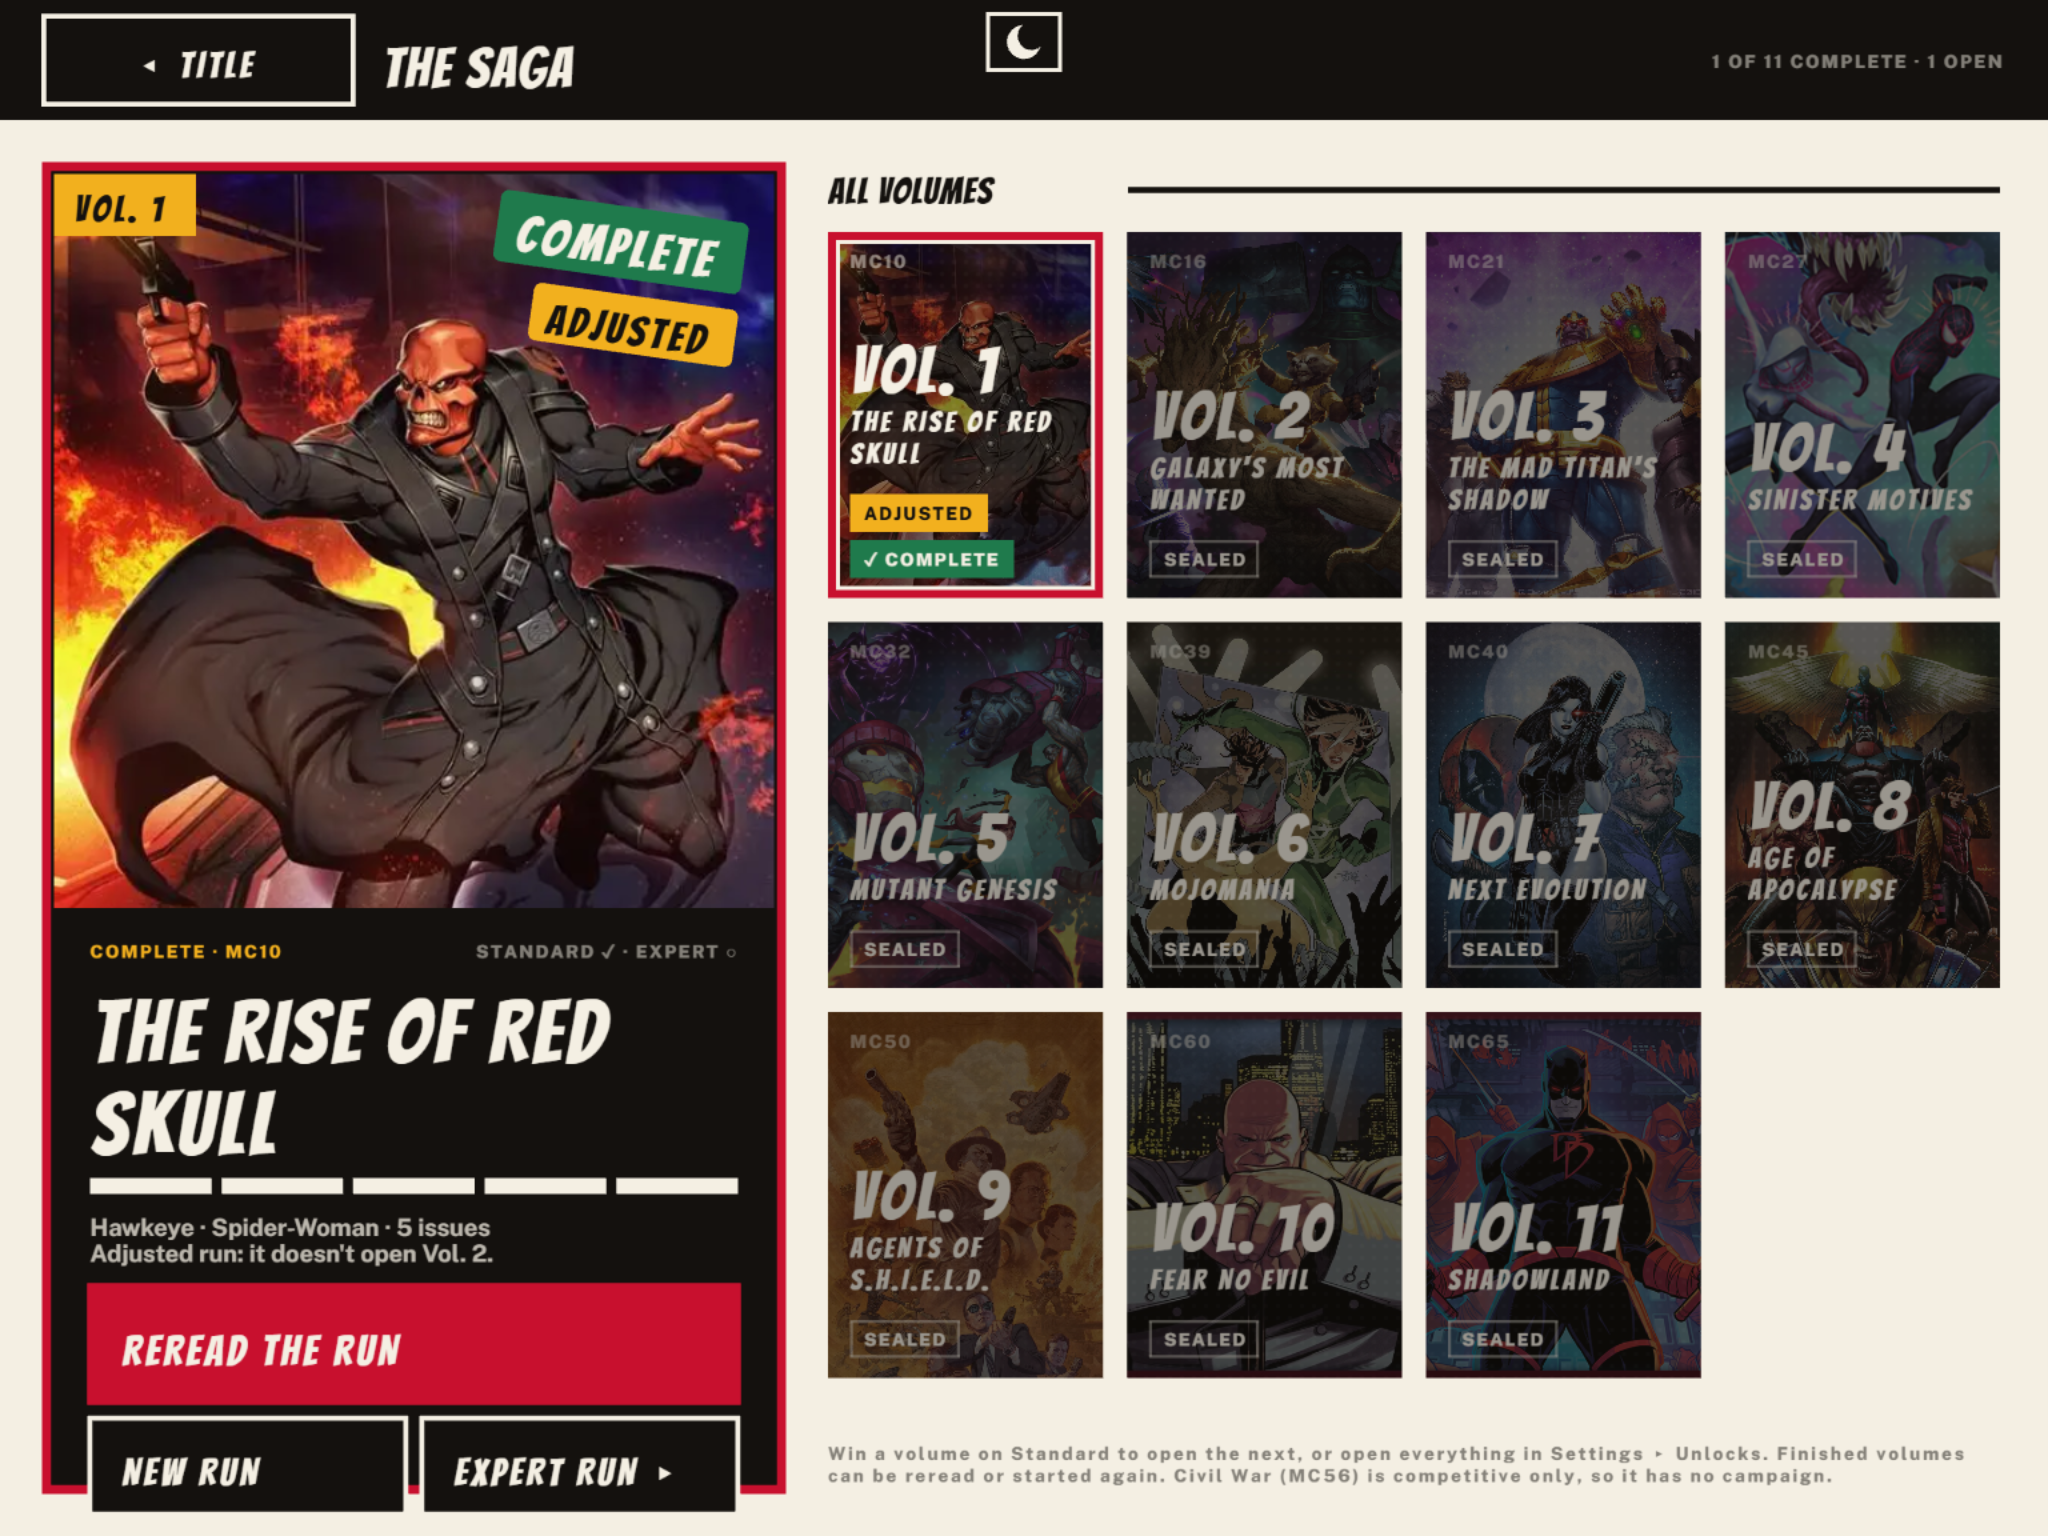
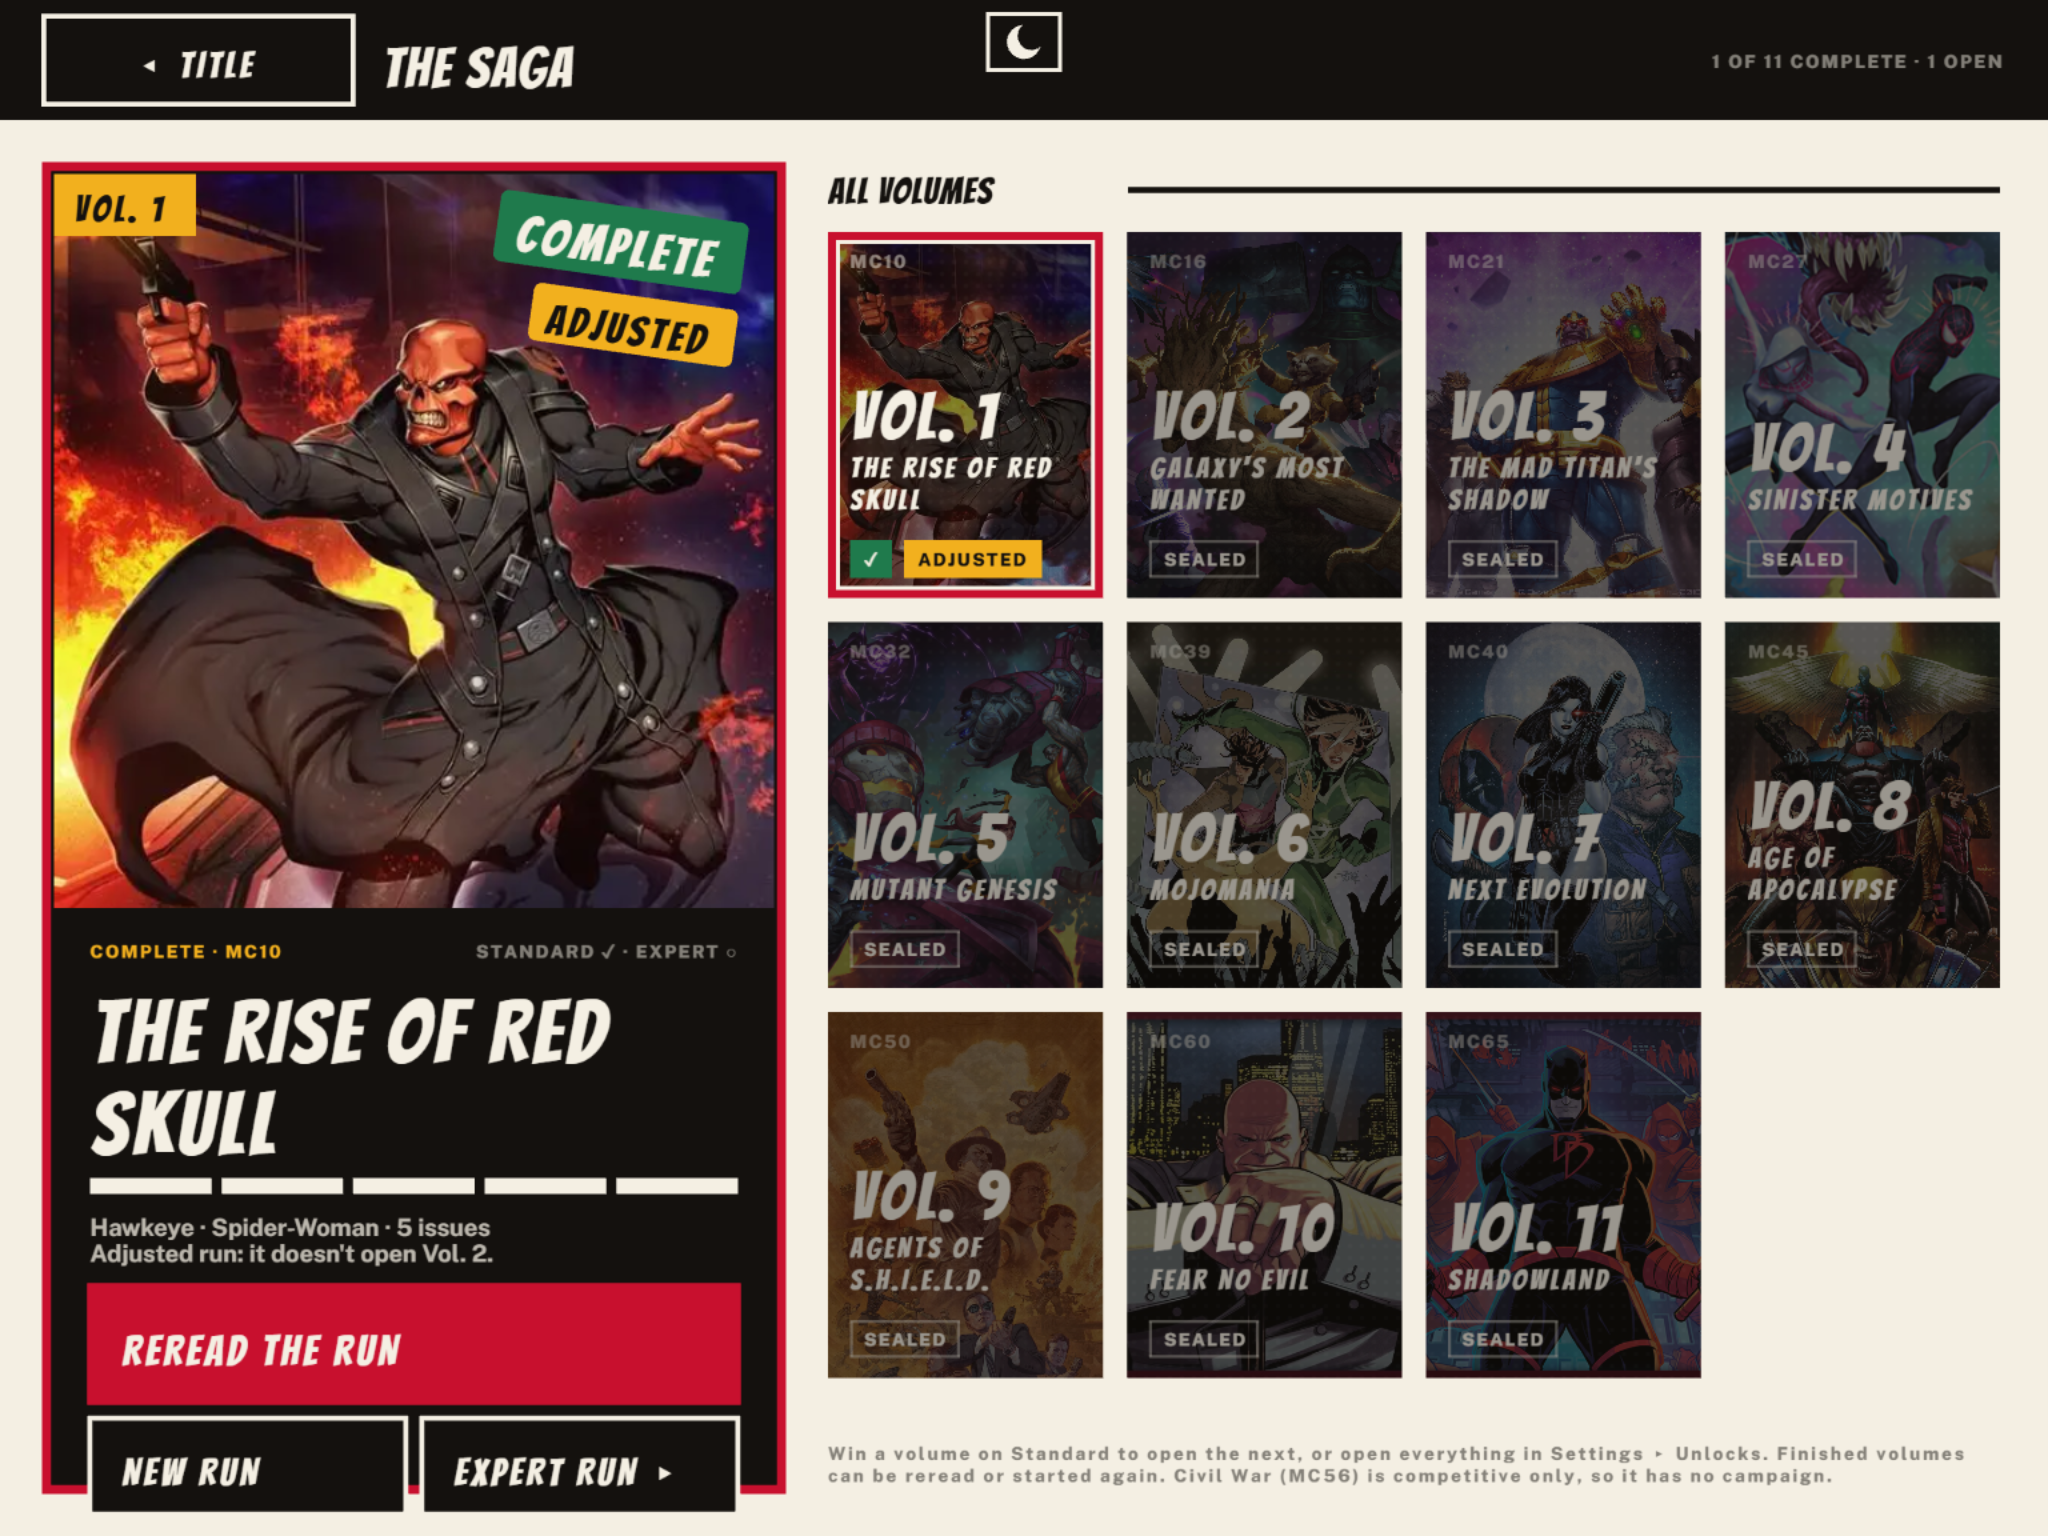
Saga tiles: keep ADJUSTED on the chip's line, shortening COMPLETE to a check in narrow tiles

Changed region(s): [[0.4062, 0.2188, 0.5312, 0.375]]

diff --git a/packages/client/src/ui/campaign-buttons-a.ts b/packages/client/src/ui/campaign-buttons-a.ts
@@ -120,6 +120,8 @@ export interface CampaignTileOptions {
   readonly chip: string;
   /** A second chip beside the first, in caution amber ("ADJUSTED" on a volume won only by adjusted runs, issue #869). */
   readonly flag?: string;
+  /** The chip's short form ("✓" for "✓ Complete"), used when the chip and `flag` don't fit side by side in full. */
+  readonly compactChip?: string;
   readonly status: CampaignTileStatus;
   /** A dimmed thumbnail behind the text, when this volume has villain art. */
   readonly art?: Picture | null;
@@ -176,22 +178,23 @@ export function campaignTile(
   // The chip's words wrap inside the tile ("NOT IN THIS BUILD" is wider than a narrow tile) and the chip grows a line.
   // Added before the label, so the fill is drawn under it.
   const chipBg = scene.add.graphics();
-  const chipLabel = scene.add
-    .text(0, 0, options.chip.toUpperCase(), textStyle(typeRole.label, chipColor.text, 1))
-    .setLetterSpacing(0.9)
-    .setAlign("left")
-    .setWordWrapWidth(Math.max(40, rect.width - 22 - 14 - 8));
-  const chipHeight = Math.max(19, chipLabel.height + 7);
-  const chipY = rect.y + rect.height - 10 - chipHeight;
-  // The flag (issue #869) sits just after the chip on its line, or on a line of its own above it in a narrow tile.
+  // The flag (issue #869) always sits just after the chip on its line, so the tile's layout never changes height. In a
+  // narrow tile (a phone's two-column Grid View, a landscape tablet) the chip gives way to its short form to make room.
   const flagLabel = options.flag
     ? scene.add
         .text(0, 0, options.flag.toUpperCase(), textStyle(typeRole.label, surface.inkOnHue.hex, 1))
         .setLetterSpacing(0.9)
     : null;
-  const flagBeside =
-    flagLabel !== null && rect.x + 11 + chipLabel.width + 14 + 6 + flagLabel.width + 14 <= rect.x + rect.width - 11;
-  const flagY = flagLabel === null || flagBeside ? chipY : chipY - chipHeight - 4;
+  const fitsBeside = (chipWidth: number): boolean =>
+    flagLabel === null || 11 + chipWidth + 14 + 6 + flagLabel.width + 14 <= rect.width - 11;
+  const chipLabel = scene.add
+    .text(0, 0, options.chip.toUpperCase(), textStyle(typeRole.label, chipColor.text, 1))
+    .setLetterSpacing(0.9)
+    .setAlign("left")
+    .setWordWrapWidth(Math.max(40, rect.width - 22 - 14 - 8));
+  if (!fitsBeside(chipLabel.width) && options.compactChip) chipLabel.setText(options.compactChip.toUpperCase());
+  const chipHeight = Math.max(19, chipLabel.height + 7);
+  const chipY = rect.y + rect.height - 10 - chipHeight;
   const titleSize = Math.min(46, rect.width * 0.24, rect.height * 0.24);
 
   // Laid out bottom-up (chip, then subtitle, then title) so a two-line box name never collides with the chip below
@@ -202,13 +205,13 @@ export function campaignTile(
       ...textStyle(bangers(Math.min(20, rect.width * 0.1), 1), surface.paper.hex),
       wordWrap: { width: rect.width - 22, useAdvancedWrap: true },
     });
-    subtitle.setY(flagY - 14 - subtitle.height);
+    subtitle.setY(chipY - 14 - subtitle.height);
     objects.push(subtitle);
   }
   const title = scene.add.text(rect.x + 11, 0, options.title.toUpperCase(), {
     ...textStyle(bangers(titleSize, 1), surface.paper.hex),
   });
-  title.setY((subtitle ? subtitle.y : flagY - 6) - 2 - title.height);
+  title.setY((subtitle ? subtitle.y : chipY - 6) - 2 - title.height);
   objects.push(title);
 
   const chipRect: Rect = { x: rect.x + 11, y: chipY, width: chipLabel.width + 14, height: chipHeight };
@@ -223,8 +226,8 @@ export function campaignTile(
   if (flagLabel) {
     const flagBg = scene.add.graphics();
     const flagRect: Rect = {
-      x: flagBeside ? chipRect.x + chipRect.width + 6 : chipRect.x,
-      y: flagY,
+      x: chipRect.x + chipRect.width + 6,
+      y: chipRect.y,
       width: flagLabel.width + 14,
       height: chipRect.height,
     };

diff --git a/packages/client/src/scenes/campaign/saga.ts b/packages/client/src/scenes/campaign/saga.ts
@@ -368,7 +368,7 @@ export class CampaignSagaScene extends Phaser.Scene {
       title: tileRow.volume.custom ? CUSTOM_BADGE : `Vol. ${tileRow.volume.number}`,
       subtitle: tileRow.volume.name,
       chip: this.#gridChip(tileRow),
-      ...(tileRow.status === "done" && tileRow.wonAdjustedOnly ? { flag: "Adjusted" } : {}),
+      ...(tileRow.status === "done" && tileRow.wonAdjustedOnly ? { flag: "Adjusted", compactChip: "✓" } : {}),
       status: tileRow.status,
       art: volumeArtOf(tileRow.volume),
       onArtReady: this.#onArt,
